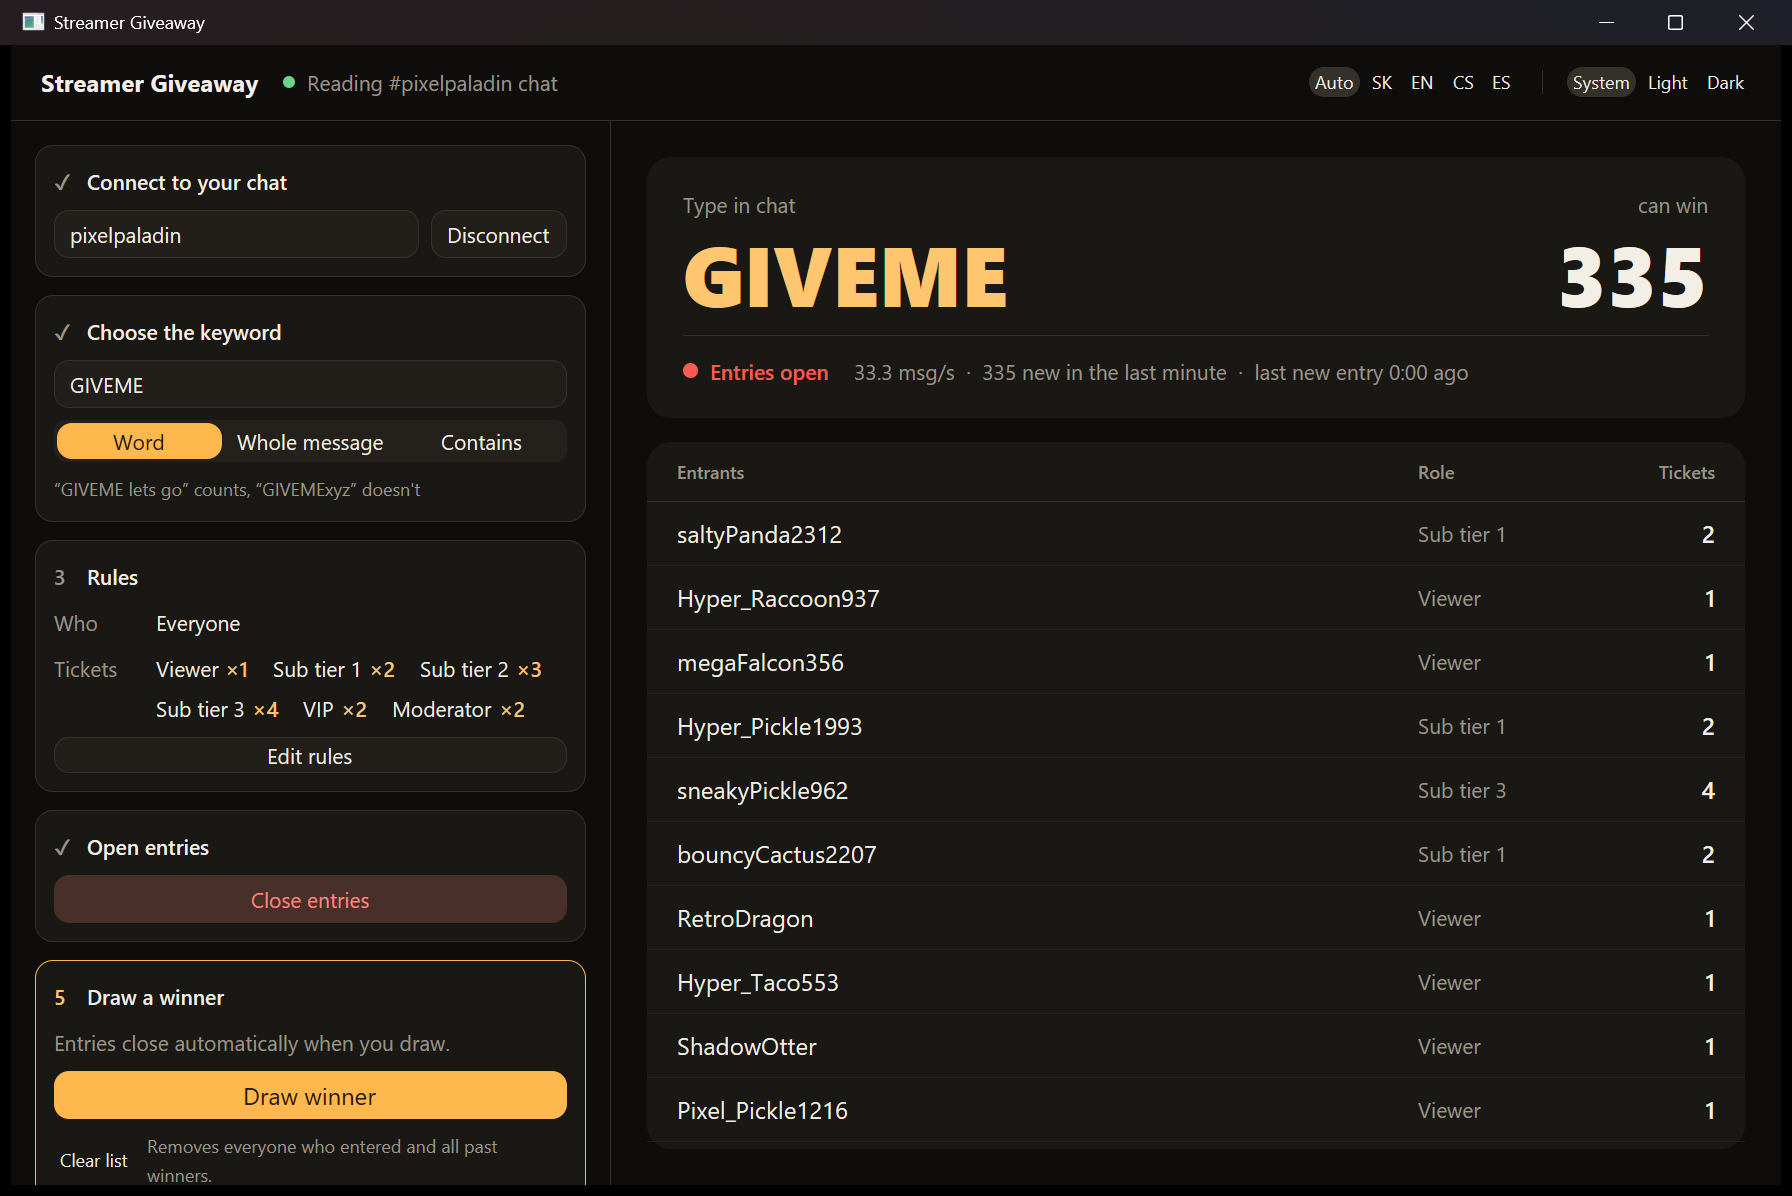
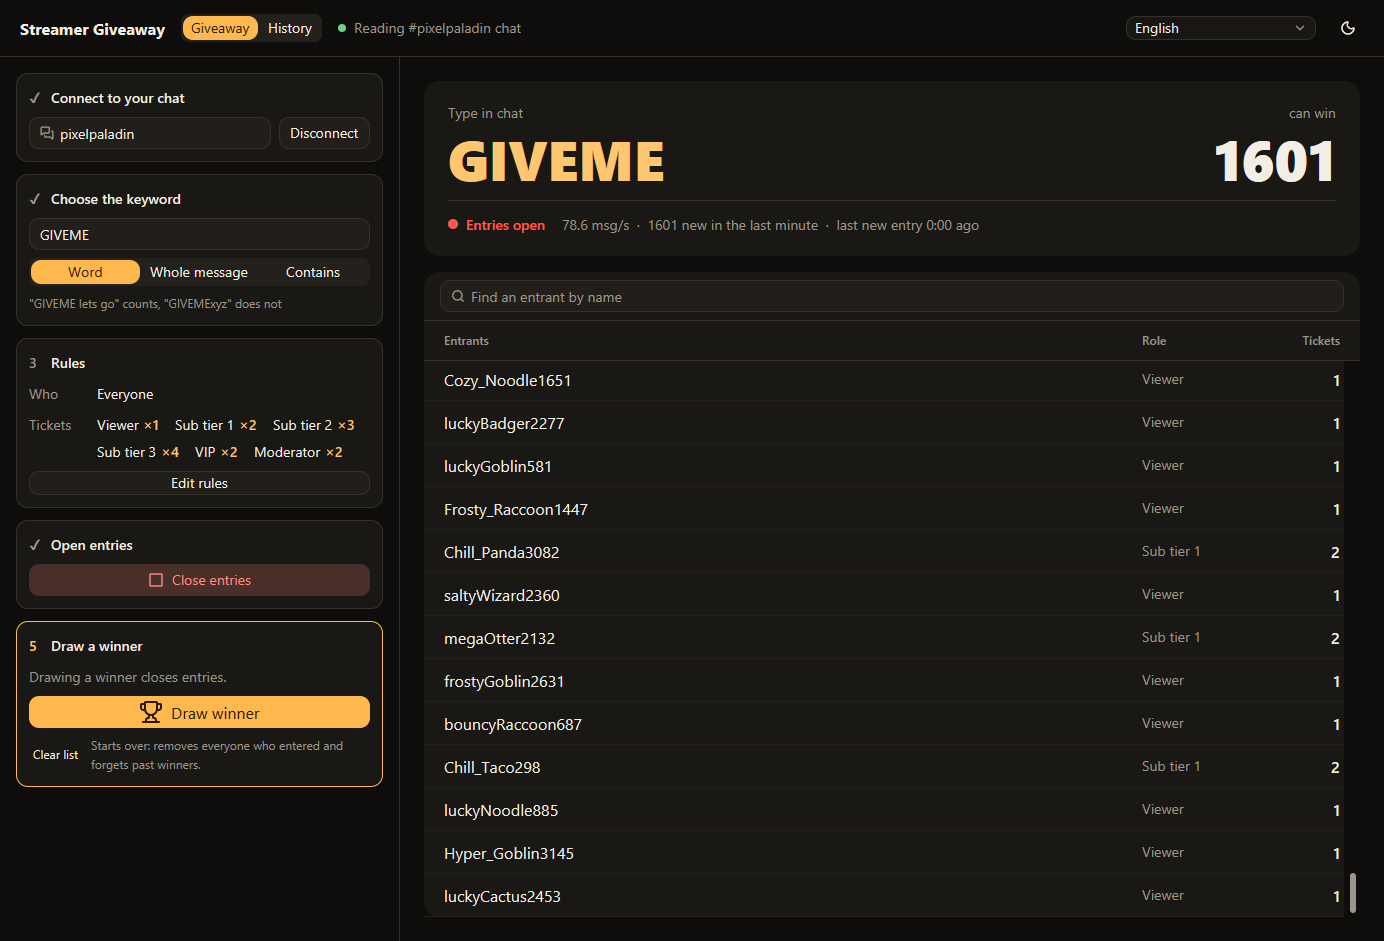
docs: refresh screenshots, gif and readme intro

diff --git a/README.md b/README.md
@@ -2,11 +2,21 @@
 
 # Streamer Giveaway
 
-A desktop app for Twitch chat giveaways. Viewers enter by typing a keyword in chat, the app counts
-each person once, and you draw a winner on stream. You don't need a bot account, a login or a
-browser source.
+A free desktop app for Twitch chat giveaways. Viewers enter by typing a keyword in chat, the app
+counts each person once, and you draw a winner live on stream. You don't need a bot account, a
+login or a browser source.
+
+**[Download for Windows](https://github.com/vengex-org/streamer-giveaway/releases/latest)**
 
 ![Drawing a winner and waiting for their answer](docs/winner-draw.gif)
+
+## Why a desktop app
+
+- Chat goes straight from Twitch to your PC. An entry shows up the moment its message arrives,
+  with no web dashboard or cloud bot in between.
+- Setup takes a minute: type your channel name, pick a keyword, open entries.
+- You can rehearse before going live. Demo mode plays a whole giveaway for any audience size, for
+  example 8000 viewers.
 
 ## Features
 
@@ -32,9 +42,9 @@ browser source.
   follow your system settings until you pick one in the header, and "Auto" or "System" goes back
   to that.
 
-| Entries coming in | Winner answered | Editing the rules, light theme |
+| Entries coming in (8000-viewer demo) | Winner answered | Rules and search, light theme |
 |---|---|---|
-| ![Entries](docs/entries-dark.png) | ![Winner](docs/winner-dark.png) | ![Rules](docs/conditions-light.png) |
+| ![Entries](docs/entries-dark.png) | ![Winner](docs/winner-dark.png) | ![Rules and search](docs/rules-search-light.png) |
 
 ## Try it without a stream
 
